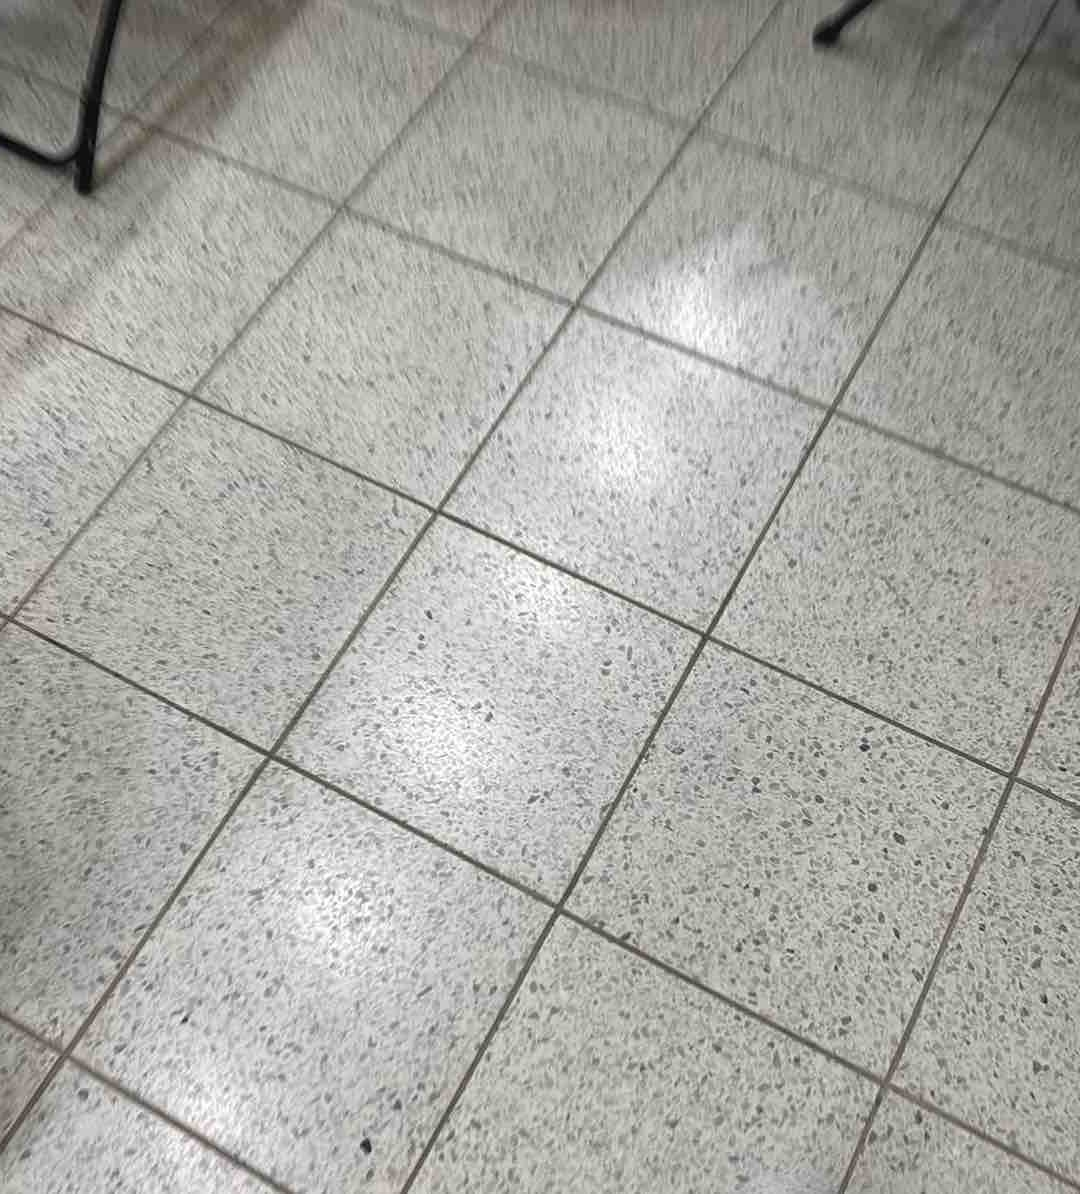
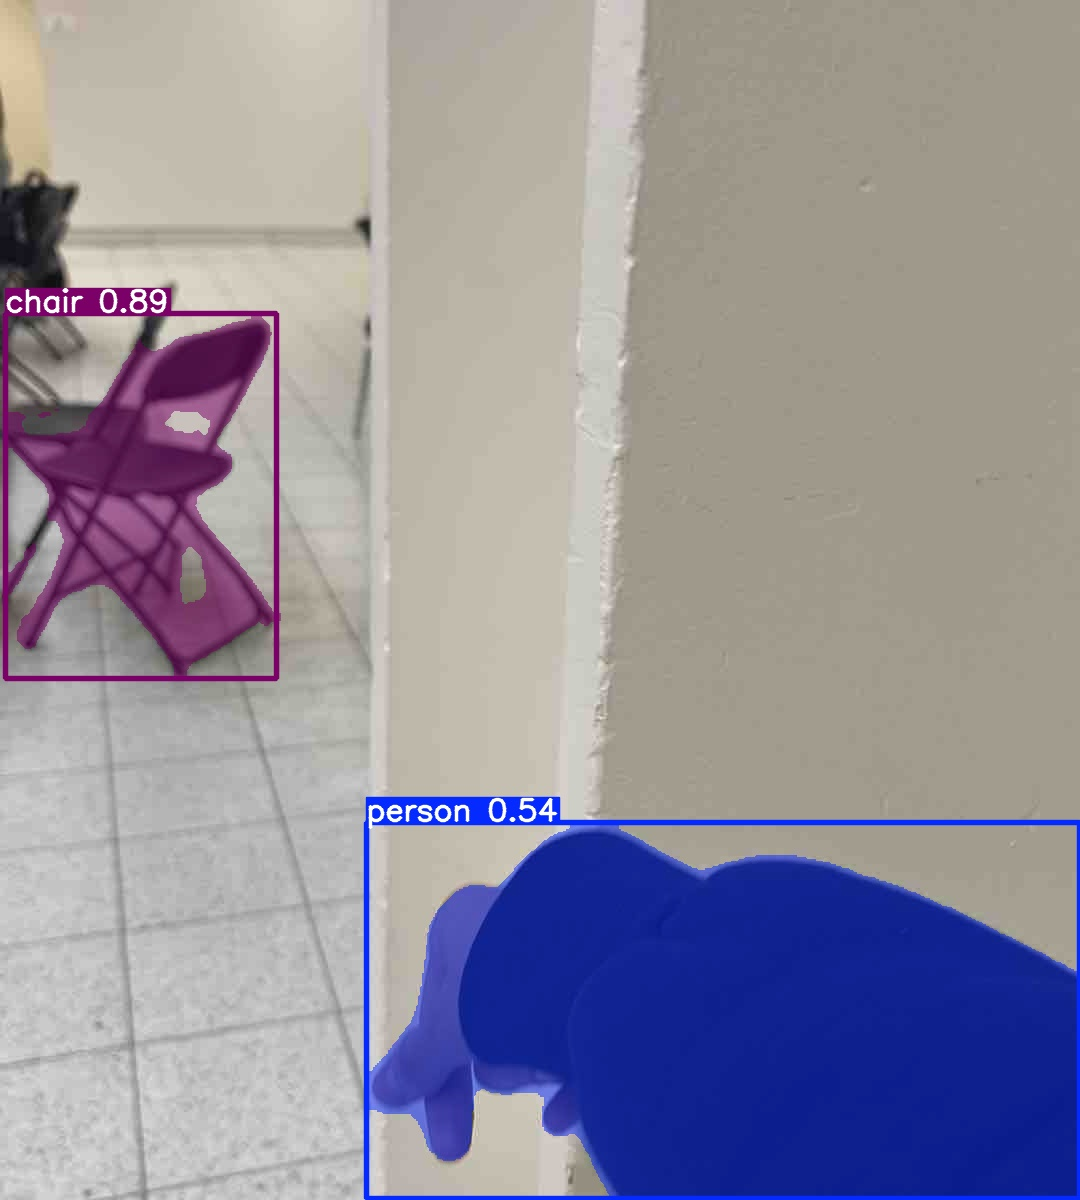
Vision final

diff --git a/mobile/components/AssessmentScreen.js b/mobile/components/AssessmentScreen.js
@@ -10,9 +10,9 @@ export default function AssessmentScreen({ onComplete, onBack }) {
   const questions = [
     {
       id: 1,
-      question: "Have you been diagnosed with glaucoma?",
+      question: "Have you been diagnosed with any vision-related conditions?",
       options: [
-        "Yes, I have been diagnosed",
+        "Yes, I have been diagnosed with a vision condition",
         "No, I have not been diagnosed",
         "I'm not sure / I'm waiting for diagnosis",
         "I prefer not to answer"
@@ -20,7 +20,17 @@ export default function AssessmentScreen({ onComplete, onBack }) {
     },
     {
       id: 2,
-      question: "How would you describe your peripheral vision?",
+      question: "How would you describe your overall vision clarity?",
+      options: [
+        "Excellent - very clear",
+        "Good - mostly clear with minor issues",
+        "Fair - noticeable blurriness or distortion",
+        "Poor - significant vision impairment"
+      ]
+    },
+    {
+      id: 3,
+      question: "How would you describe your peripheral (side) vision?",
       options: [
         "Excellent - no issues",
         "Good - minor limitations",
@@ -29,7 +39,17 @@ export default function AssessmentScreen({ onComplete, onBack }) {
       ]
     },
     {
-      id: 3,
+      id: 4,
+      question: "How is your vision in low light or at night?",
+      options: [
+        "Excellent - no issues",
+        "Good - minor difficulty",
+        "Fair - noticeable difficulty",
+        "Poor - very difficult to see"
+      ]
+    },
+    {
+      id: 5,
       question: "What challenges do you face in daily navigation?",
       options: [
         "No significant challenges",
@@ -39,13 +59,33 @@ export default function AssessmentScreen({ onComplete, onBack }) {
       ]
     },
     {
-      id: 4,
-      question: "What is your primary goal with GlaucoGuard?",
+      id: 6,
+      question: "How often do you experience vision-related difficulties?",
+      options: [
+        "Rarely or never",
+        "Occasionally (a few times a week)",
+        "Frequently (daily or multiple times per day)",
+        "Constantly"
+      ]
+    },
+    {
+      id: 7,
+      question: "What is your primary goal with Visionary?",
       options: [
         "Early detection and prevention",
-        "Monitor existing condition",
+        "Monitor existing vision condition",
         "Improve daily navigation safety",
         "Track vision changes over time"
+      ]
+    },
+    {
+      id: 8,
+      question: "How has vision loss affected your daily activities?",
+      options: [
+        "No significant impact",
+        "Minor impact on some activities",
+        "Moderate impact on many activities",
+        "Severe impact requiring assistance"
       ]
     }
   ];
@@ -283,4 +323,3 @@ const styles = StyleSheet.create({
     fontFamily: 'monospace',
   },
 });
-

diff --git a/mobile/App.js b/mobile/App.js
@@ -44,7 +44,7 @@ export default function App() {
         console.log('✅ Connected to server');
         setIsConnected(true);
         setIsConnecting(false);
-        Alert.alert('Connected', 'Successfully connected to GlaucoGuard server');
+        Alert.alert('Connected', 'Successfully connected to Visionary server');
       };
 
       ws.onerror = (error) => {
@@ -231,7 +231,7 @@ export default function App() {
     // TODO: Implement actual sign in logic
     // Navigate to assessment screen
     console.log('Sign in successful');
-    setCurrentScreen('assessment');
+    setCurrentScreen('camera');
   };
 
   const handleCreateAccount = () => {
@@ -304,7 +304,7 @@ export default function App() {
             style={styles.logo}
             resizeMode="contain"
           />
-          <Text style={styles.title}>GLAUCOGUARD</Text>
+          <Text style={styles.title}>VISIONARY</Text>
         </View>
         <View style={[styles.statusIndicator, isConnected && styles.statusConnected]}>
           <Text style={styles.statusText}>

diff --git a/mobile/components/HomeScreen.js b/mobile/components/HomeScreen.js
@@ -14,7 +14,7 @@ export default function HomeScreen({ onNavigateToCamera, onNavigateToSignIn, onN
       
       {/* Header */}
       <View style={styles.header}>
-        <Text style={styles.title}>GLAUCOGUARD</Text>
+        <Text style={styles.title}>VISIONARY</Text>
         <Text style={styles.subtitle}>Detection System</Text>
       </View>
 

diff --git a/web/index.html b/web/index.html
@@ -1,7 +1,7 @@
 <!DOCTYPE html>
 <html>
 <head>
-    <title>GLAUCOGUARD - Live Feed</title>
+    <title>Visionary - Live Feed</title>
     <meta charset="UTF-8">
     <meta name="viewport" content="width=device-width, initial-scale=1.0">
     <style>

diff --git a/backend/server.py b/backend/server.py
@@ -15,9 +15,8 @@ from typing import Set, Dict, Any
 from analyze_hazard import analyze, ask_question_about_image
 import threading
 import serial
-import time
-import sounddevice as sd
-
+import io
+from PIL import Image
 
 TMP_DIR = './tmp'
 os.makedirs(TMP_DIR, exist_ok=True)
@@ -323,13 +322,32 @@ class GlaucoGuardServer:
                         current_time = asyncio.get_event_loop().time()
                         if not self.touch_detected.is_set() and current_time - self.last_analyze_time >= self.analyze_interval:
                             self.last_analyze_time = current_time
-                            asyncio.create_task(analyze(
-                                    data["data"],
-                                    encoded=True,
-                                    left_arduino=self.left_arduino,
-                                    right_arduino=self.right_arduino,
-                                    test=self.test
-                                ))
+                            try:
+                                    # Decode Base64 to bytes
+                                    image_bytes = base64.b64decode(data["data"])
+                                    image = Image.open(io.BytesIO(image_bytes))
+
+                                    # TRANSPOSE the image (flip horizontally as example)
+                                    rotated_image = image.rotate(-90, expand=True)
+
+                                    # Save transposed image to tmp dir
+                                    filename = f"{datetime.now().strftime('%Y%m%d_%H%M%S_%f')}.jpg"
+                                    image_path = os.path.join(TMP_DIR, filename)
+                                    rotated_image.save(image_path)
+                                    print(f"[{datetime.now().strftime('%H:%M:%S')}] Saved transposed image for analysis: {image_path}")
+
+                                    # Pass file path to analyze function
+                                    asyncio.create_task(analyze(
+                                        image_path,
+                                        encoded=False,
+                                        left_arduino=self.left_arduino,
+                                        right_arduino=self.right_arduino,
+                                        test=self.test
+                                    ))
+
+                            except Exception as e:
+                                    print(f"[{datetime.now().strftime('%H:%M:%S')}] Error decoding/transposing image: {e}")
+                            
 
                     
                     # Check if this is a mobile client sending video frames

diff --git a/backend/analyze_hazard.py b/backend/analyze_hazard.py
@@ -26,6 +26,7 @@ except ImportError:
 
 # Load environment variables
 load_dotenv()
+playing_audio = False
 
 
 class HazardAnalyzer:
@@ -235,6 +236,12 @@ Consider an object "too close" if it appears within approximately 2-3 feet (60-9
         return transcription
 
     def generate_audio(self, scene_description: str) -> None:
+        global playing_audio
+        if playing_audio:
+            return
+            
+        playing_audio = True
+
         audio = self.elevenlabs.text_to_speech.convert(
             text=scene_description,
             voice_id="JBFqnCBsd6RMkjVDRZzb",
@@ -242,6 +249,7 @@ Consider an object "too close" if it appears within approximately 2-3 feet (60-9
             output_format="mp3_44100_128",
         )
         play(audio)
+        playing_audio = False
 
 
 def analyze(image_base64: str, encoded: bool, left_arduino, right_arduino, test=False):
@@ -312,6 +320,8 @@ def get_latest_file(directory):
         return latest_file
     
 def ask_question_about_image(encoded=False) -> str:
+    global playing_audio
+    playing_audio = True
     print("Asking question about latest image...")
     analyzer = HazardAnalyzer()
     
@@ -361,6 +371,8 @@ def ask_question_about_image(encoded=False) -> str:
             response_text = sentences[0].strip() + '.'
 
         print(f"Claude response: {response_text}")
+        playing_audio = False
+
         
         # Step 3: Generate and play audio response
         analyzer.generate_audio(response_text)
